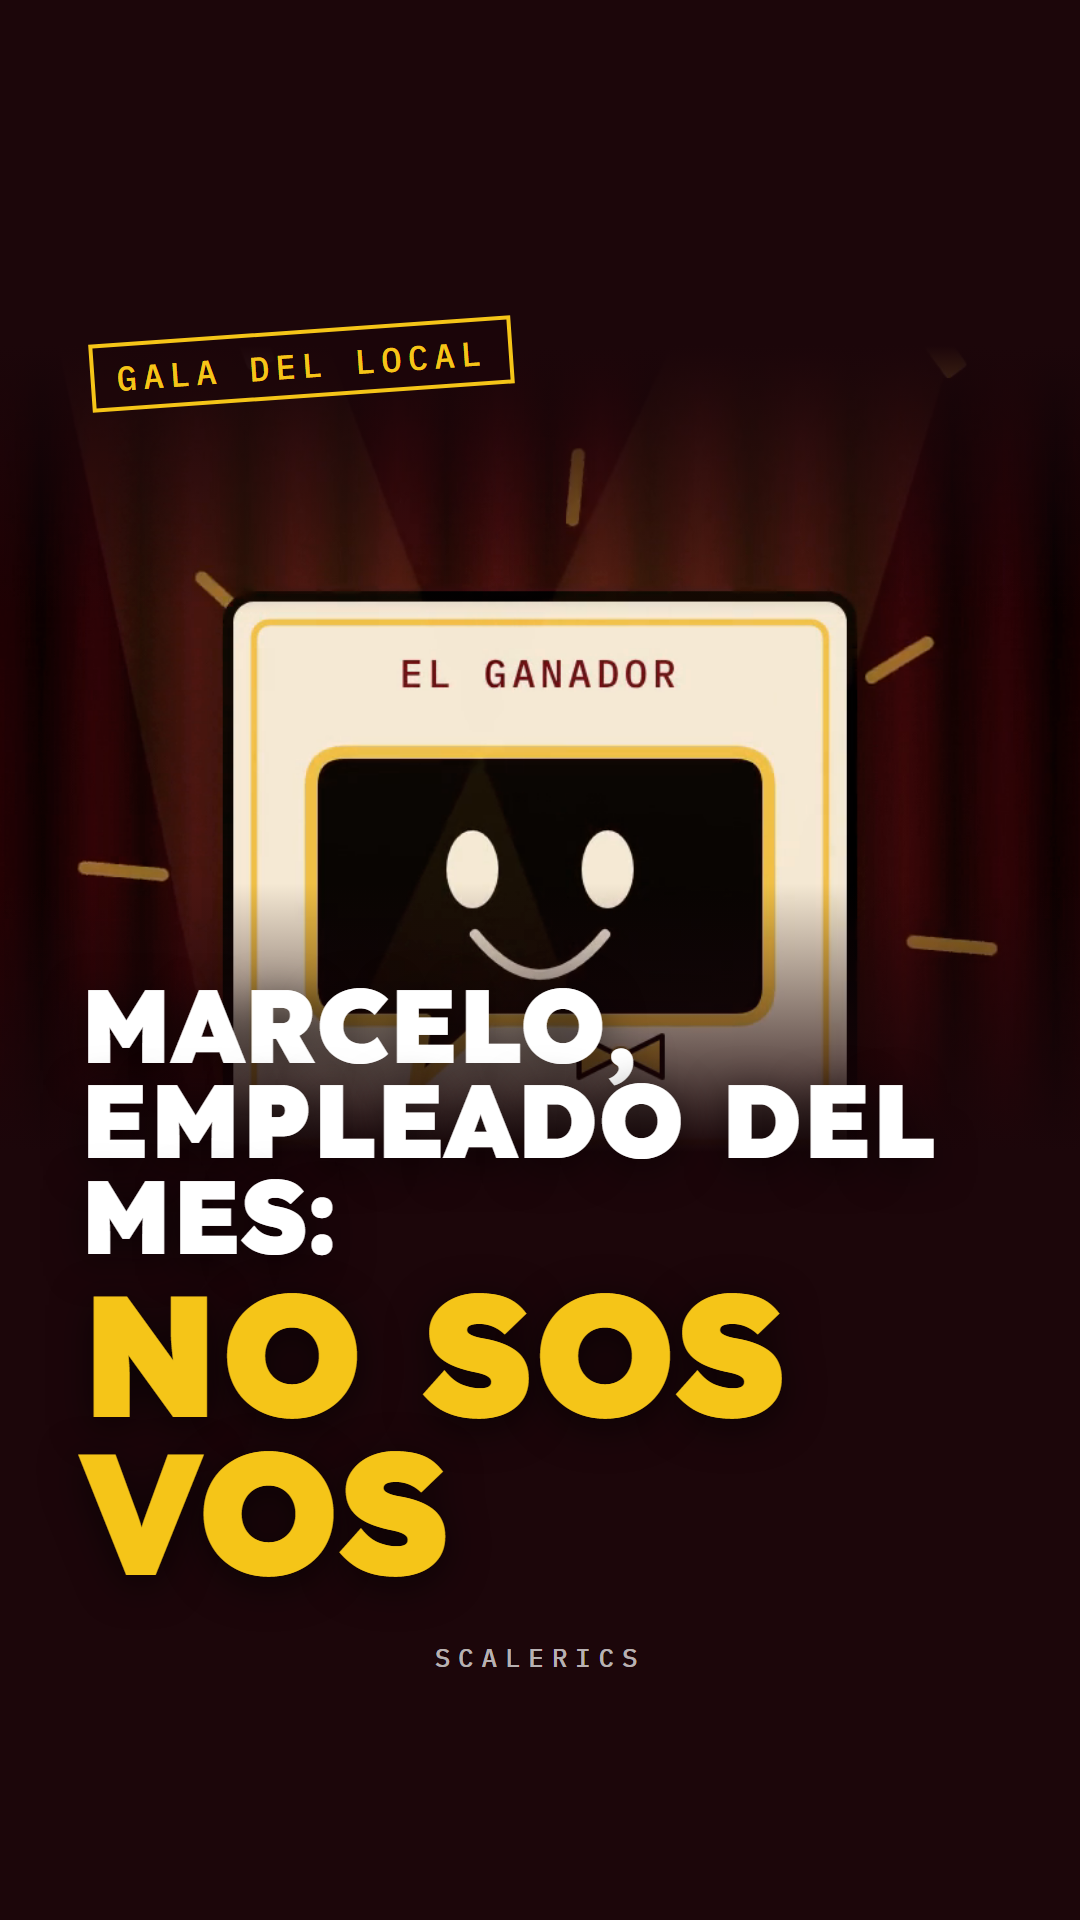
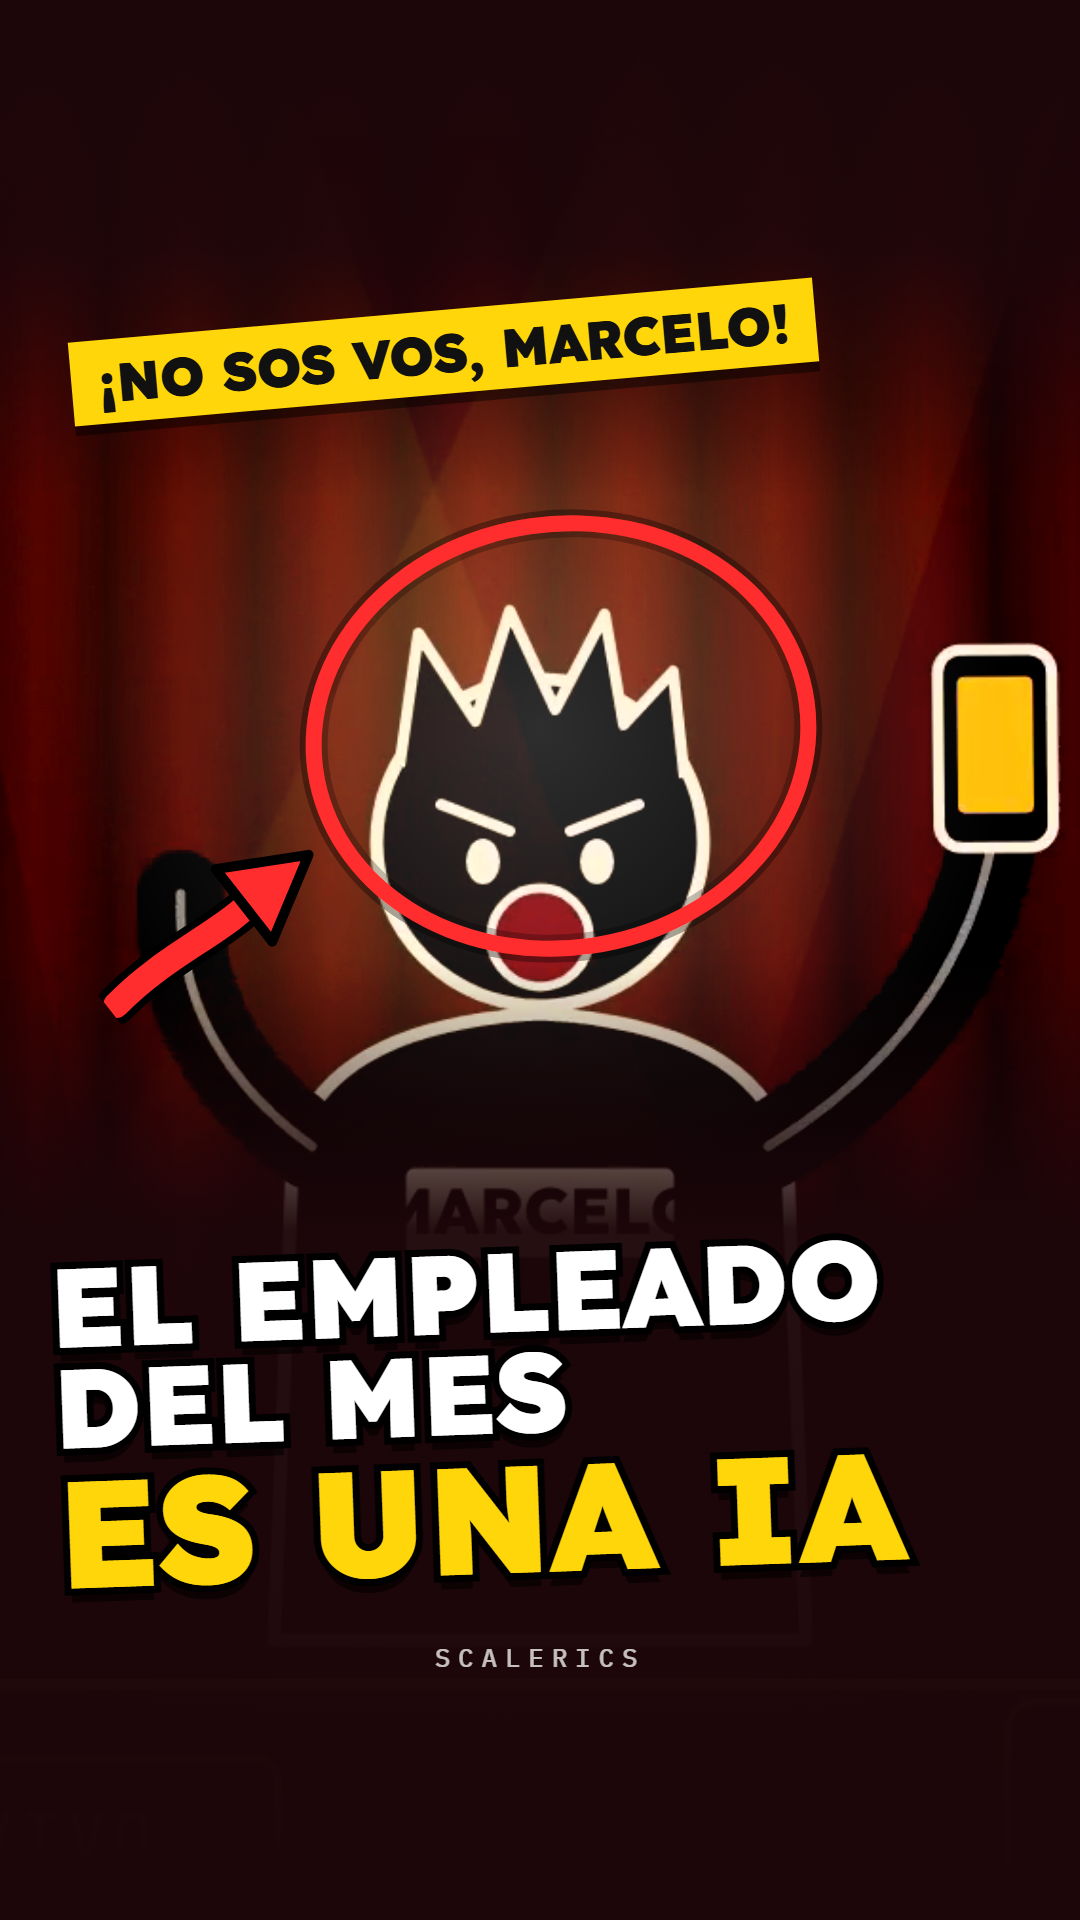
feat(reels): portadas clickbait (zoom, borde negro, etiqueta, flecha y círculo)

diff --git a/herramientas/portada.html b/herramientas/portada.html
@@ -1,30 +1,41 @@
 <!doctype html>
-<!-- Portada de un reel (1080x1920). La llena herramientas/portada.mjs con reels/<slug>/portada.json:
-     un cuadro del propio reel de fondo y el gancho en letras gigantes. Todo lo importante va dentro
-     del recorte 4:5 que muestra la grilla de Instagram (y de 285 a 1635). -->
+<!-- Portada CLICKBAIT de un reel (1080x1920). La llena herramientas/portada.mjs con reels/<slug>/portada.json:
+     un cuadro del propio reel, con zoom al personaje, el gancho gigante con borde negro, una etiqueta
+     que pica y, si se pide, una flecha y un círculo rojos señalando lo importante. Todo lo importante
+     va dentro del recorte 4:5 que muestra la grilla de Instagram (y de 285 a 1635). -->
 <html lang="es">
 <head>
 <meta charset="utf-8">
 <style>
   @font-face { font-family: "Lexend"; font-weight: 100 900; src: url("__FUENTES__/Lexend-var.woff2") format("woff2"); }
   @font-face { font-family: "Plex"; font-weight: 500; src: url("__FUENTES__/IBMPlexMono-500.woff2") format("woff2"); }
-  :root { --acento: #f5c518; --sello: #e5484d; --texto: #ffffff; --fondo: #06101f; --velo: 6,16,31; }
+  :root { --acento: #ffd60a; --sello: #e5484d; --texto: #ffffff; --fondo: #06101f; --velo: 6,16,31; --rojo: #ff2d2d; }
   html, body { margin: 0; width: 1080px; height: 1920px; overflow: hidden; background: var(--fondo); }
-  .cuadro { position: absolute; inset: 0; background: center / cover no-repeat url("__CUADRO__"); transform: scale(var(--zoom, 1.12)); transform-origin: 50% var(--foco, 40%); }
+  .cuadro { position: absolute; inset: 0; background: center / cover no-repeat url("__CUADRO__"); transform: scale(var(--zoom, 1.12)); transform-origin: var(--foco-x, 50%) var(--foco, 40%);
+    filter: saturate(1.35) contrast(1.12); }
   .velo { position: absolute; inset: 0;
-    background: linear-gradient(180deg, rgba(var(--velo),1) 0%, rgba(var(--velo),1) 18%, rgba(var(--velo),0) 32%, rgba(var(--velo),0) 46%, rgba(var(--velo),1) 60%, rgba(var(--velo),1) 100%); }
-  .sello { position: absolute; left: 90px; top: 330px; font: 500 34px/1 "Plex", monospace; letter-spacing: .18em; text-transform: uppercase;
-    color: var(--sello); border: 4px solid var(--sello); padding: 14px 22px 12px; transform: rotate(-4deg); background: rgba(var(--velo),.55); }
-  .titulo { position: absolute; left: 80px; right: 80px; bottom: 330px; font-family: "Lexend", sans-serif; font-weight: 900; text-transform: uppercase;
-    line-height: .92; letter-spacing: -.02em; color: var(--texto); text-shadow: 0 8px 40px rgba(0,0,0,.6); }
-  .titulo .chica { display: block; font-size: 104px; }
-  .titulo .grande { display: block; font-size: 172px; color: var(--acento); margin-top: 10px; }
-  .marca { position: absolute; left: 0; right: 0; bottom: 250px; text-align: center; font: 500 26px/1 "Plex", monospace; letter-spacing: .3em; color: rgba(255,255,255,.7); text-transform: uppercase; }
+    background: linear-gradient(180deg, rgba(var(--velo),1) 0%, rgba(var(--velo),.9) 13%, rgba(var(--velo),0) 26%, rgba(var(--velo),0) 50%, rgba(var(--velo),.96) 64%, rgba(var(--velo),1) 100%); }
+  /* Brillo de fondo detrás del personaje: lo despega, como en las miniaturas de YouTube */
+  .brillo { position: absolute; left: 50%; top: var(--brillo-y, 40%); width: 1100px; height: 1100px; transform: translate(-50%, -50%);
+    background: radial-gradient(circle, rgba(255,255,255,.18) 0%, rgba(255,255,255,0) 60%); mix-blend-mode: screen; }
+  .sello { position: absolute; left: 70px; top: 310px; font: 900 54px/1 "Lexend", sans-serif; text-transform: uppercase; letter-spacing: -.01em;
+    color: #111; background: var(--sello); padding: 16px 26px 14px; transform: rotate(-5deg); box-shadow: 0 10px 0 rgba(0,0,0,.45); }
+  .titulo { position: absolute; left: 60px; right: 60px; bottom: 320px; font-family: "Lexend", sans-serif; font-weight: 900; text-transform: uppercase;
+    line-height: .9; letter-spacing: -.03em; color: var(--texto); transform: rotate(-2deg); transform-origin: left bottom;
+    -webkit-text-stroke: 14px #000; paint-order: stroke fill; text-shadow: 0 14px 0 rgba(0,0,0,.55); }
+  .titulo .chica { display: block; }
+  .titulo .grande { display: block; color: var(--acento); margin-top: 6px; }
+  .marca { position: absolute; left: 0; right: 0; bottom: 250px; text-align: center; font: 500 26px/1 "Plex", monospace; letter-spacing: .3em; color: rgba(255,255,255,.75); text-transform: uppercase; }
+  /* Círculo y flecha rojos, a mano alzada */
+  .circulo { position: absolute; border: 16px solid var(--rojo); border-radius: 50%; transform: rotate(-8deg); box-shadow: 0 0 0 6px rgba(0,0,0,.35), inset 0 0 0 6px rgba(0,0,0,.25); }
+  .flecha { position: absolute; width: 260px; height: 120px; transform-origin: 0 50%; }
 </style>
 </head>
 <body>
   <div class="cuadro"></div>
+  <div class="brillo"></div>
   <div class="velo"></div>
+  __EXTRAS__
   <div class="sello">__SELLO__</div>
   <div class="titulo"><span class="chica">__CHICA__</span><span class="grande">__GRANDE__</span></div>
   <div class="marca">Scalerics</div>
